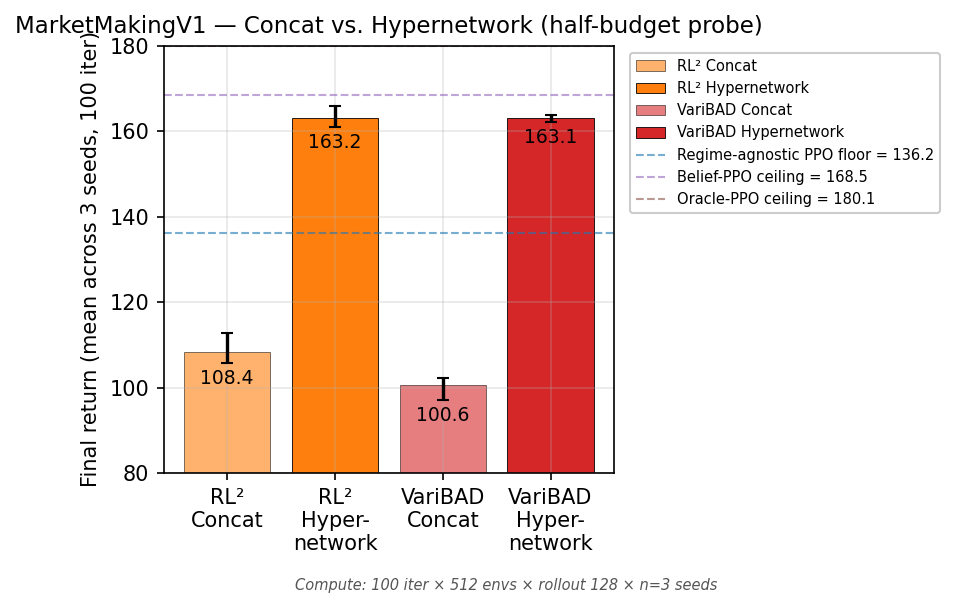
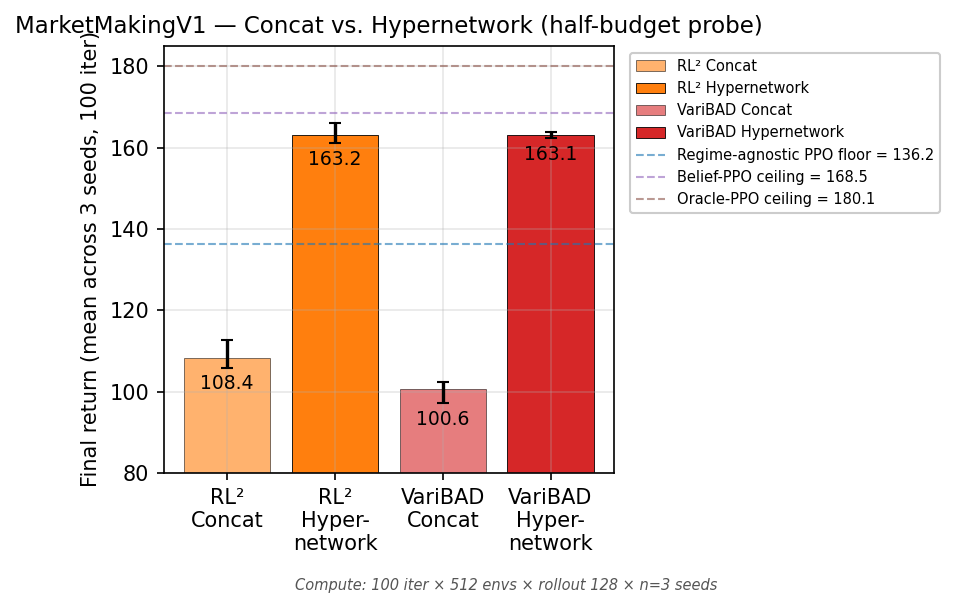
Plotting: cap step3_mm_hypernet y-axis at oracle + 5
Oracle-PPO ceiling line was pinned to the chart's top edge and effectively
invisible. Per docs/plotting.md, cap at oracle_ceiling + 5 so the line
sits clearly above the bars.

diff --git a/plotting/m5_plots.py b/plotting/m5_plots.py
@@ -282,7 +282,9 @@ def plot_step3_mm_hypernet(out_path: Path) -> bool:
         loc="upper left", bbox_to_anchor=(1.02, 1.0), fontsize=7,
         frameon=True, facecolor="white", edgecolor="#cccccc", framealpha=1.0,
     )
-    ax.set_ylim(80, max(refs.get("oracle", 200), max(means) + 10))
+    # Cap at oracle + 5 so the Oracle-PPO ceiling line is clearly visible
+    # above the bars rather than pinned to the chart's top edge.
+    ax.set_ylim(80, max(refs.get("oracle", 200) + 5, max(means) + 10))
     # Read budget from the first cell's metrics (all 4 cells share budget
     # in this comparison: 100 iter × 3 seeds × 512 envs).
     first_meta = json.load(open(RESULTS_ROOT / cells[0][2] / "metrics.json"))
